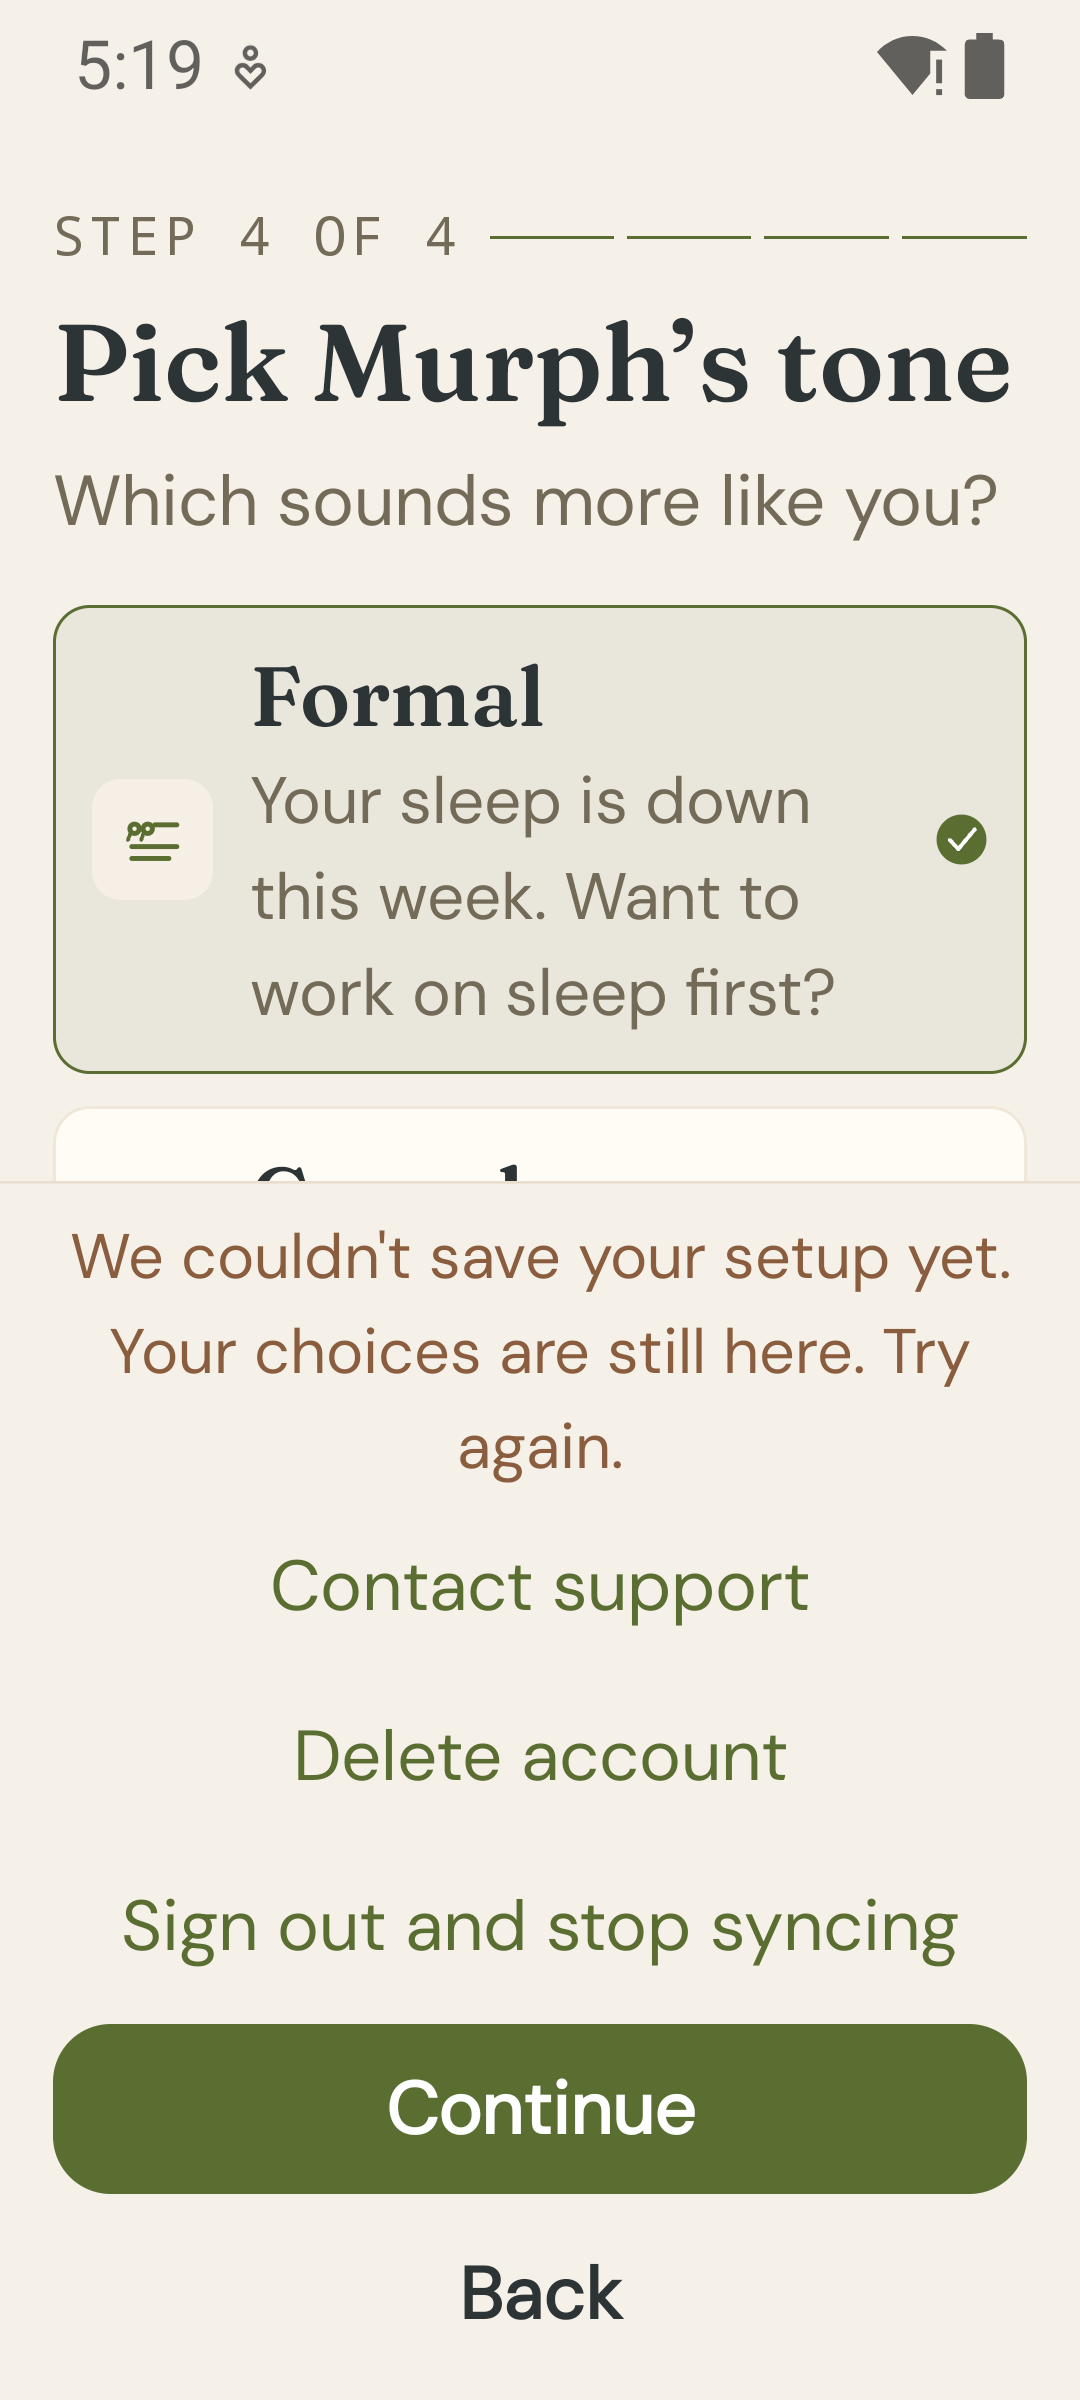
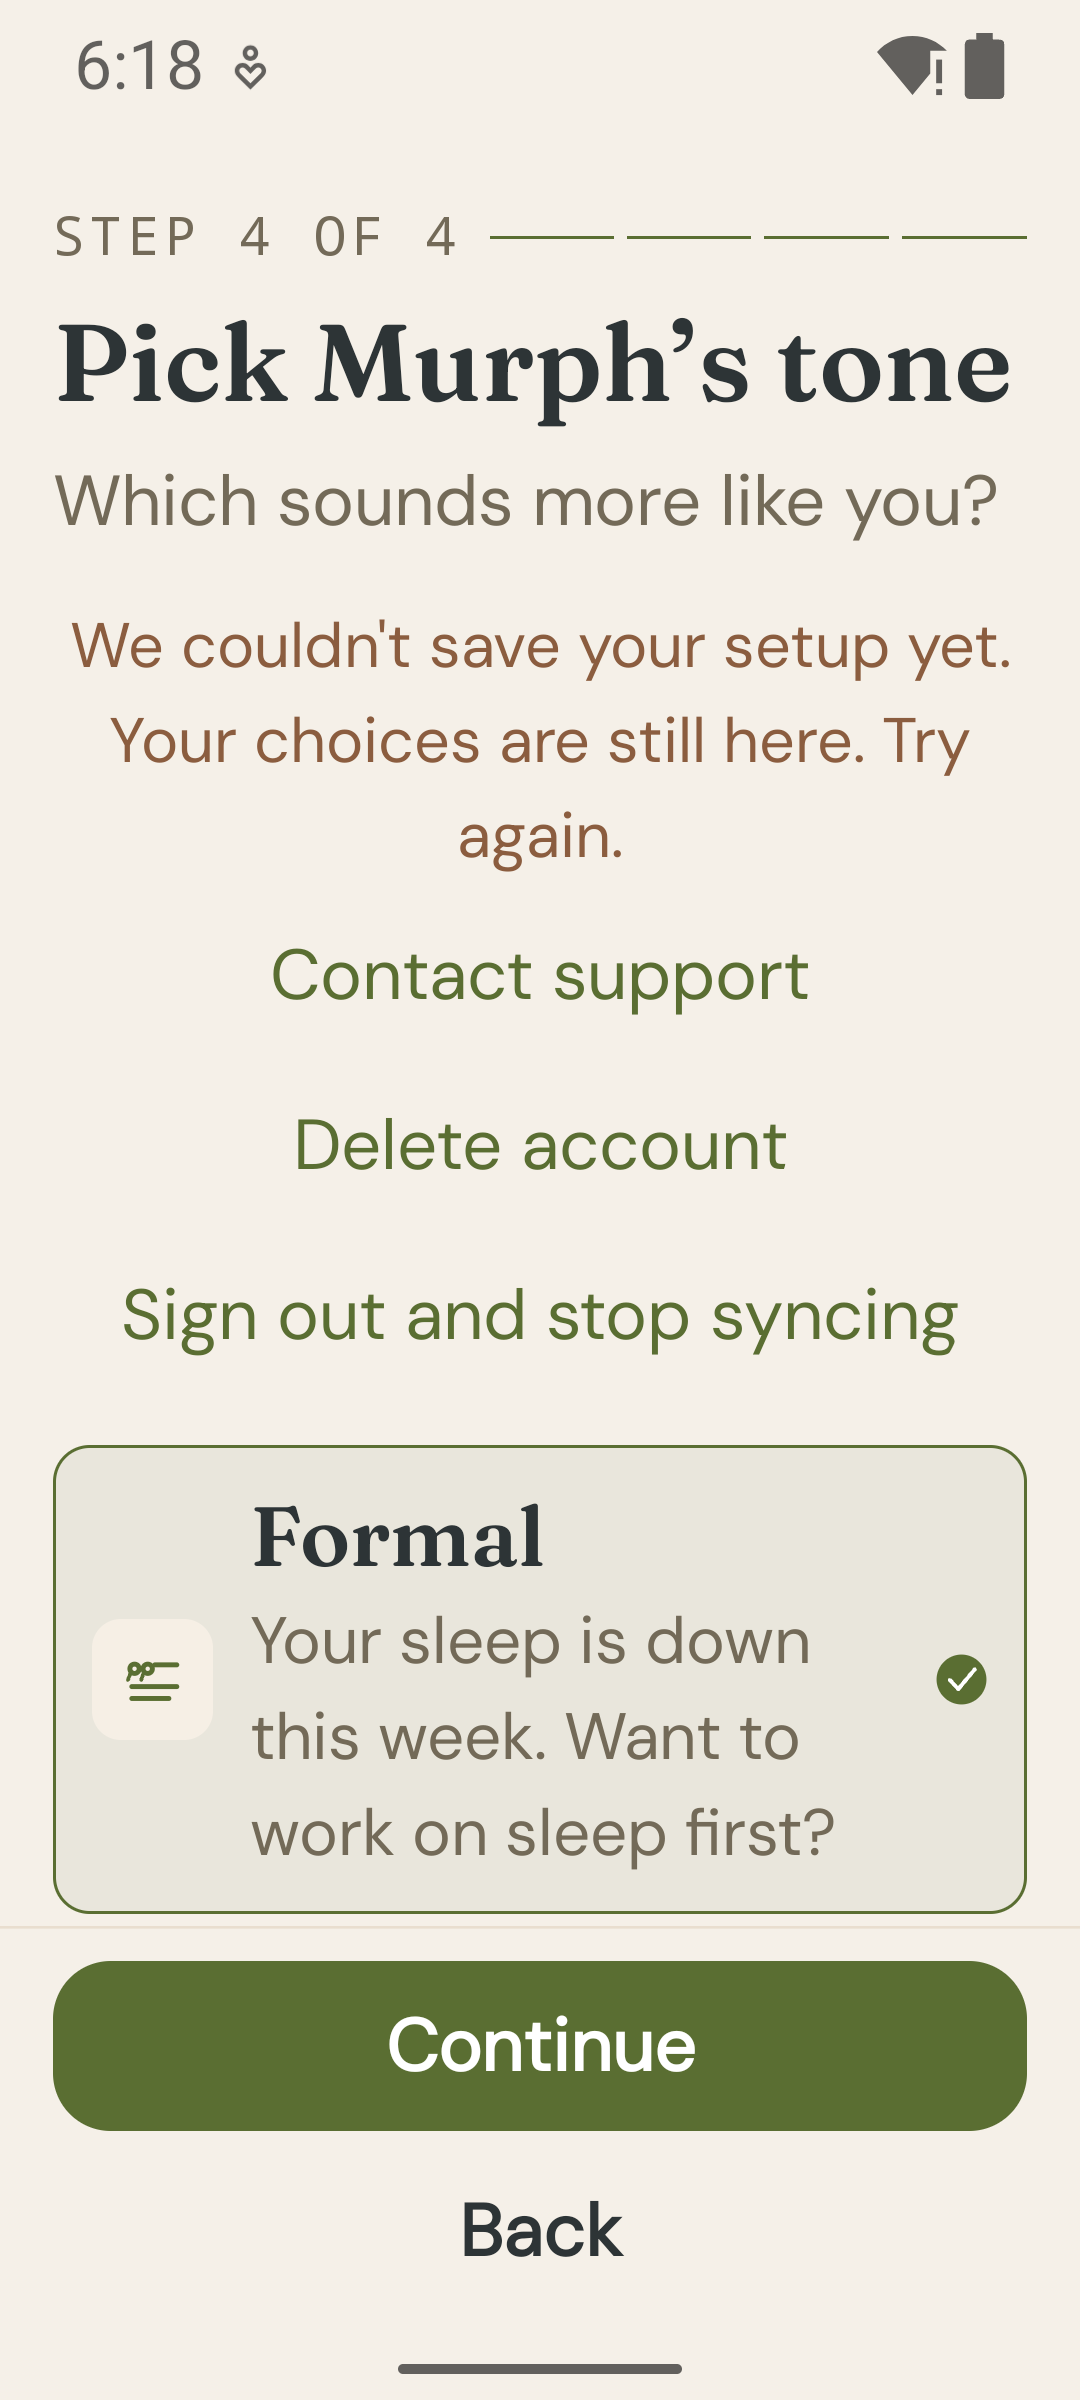
Keep onboarding recovery scrollable

diff --git a/app/src/main/java/ai/withmurph/companion/ui/onboarding/InitialOnboardingScreen.kt b/app/src/main/java/ai/withmurph/companion/ui/onboarding/InitialOnboardingScreen.kt
@@ -185,6 +185,11 @@ fun InitialOnboardingScreen(
         stageHeadingFocus.requestFocus()
         stageScrollState.scrollTo(0)
     }
+    LaunchedEffect(state.initialOnboardingMessage) {
+        if (state.initialOnboardingMessage != null) {
+            stageScrollState.animateScrollTo(0)
+        }
+    }
 
     Column(
         modifier = Modifier
@@ -205,6 +210,38 @@ fun InitialOnboardingScreen(
             verticalArrangement = Arrangement.spacedBy(22.dp),
         ) {
             OnboardingHeader(stage, draft, catalog.personas, stageHeadingFocus)
+            state.initialOnboardingMessage?.let { message ->
+                Column(
+                    modifier = Modifier.fillMaxWidth(),
+                    horizontalAlignment = Alignment.CenterHorizontally,
+                    verticalArrangement = Arrangement.spacedBy(10.dp),
+                ) {
+                    Text(
+                        text = message,
+                        modifier = Modifier.semantics {
+                            liveRegion = LiveRegionMode.Assertive
+                        },
+                        style = MaterialTheme.typography.bodySmall,
+                        color = MurphColors.Sienna,
+                        textAlign = TextAlign.Center,
+                    )
+                    MurphLinkButton(
+                        text = "Contact support",
+                        onClick = actions.onOpenSupport,
+                        enabled = !state.isInitialOnboardingSaving,
+                    )
+                    MurphLinkButton(
+                        text = "Delete account",
+                        onClick = actions.onDeleteAccount,
+                        enabled = !state.isInitialOnboardingSaving,
+                    )
+                    MurphLinkButton(
+                        text = "Sign out and stop syncing",
+                        onClick = actions.onSignOut,
+                        enabled = !state.isInitialOnboardingSaving,
+                    )
+                }
+            }
             when (stage) {
                 InitialOnboardingStage.Contact -> ContactChoices(
                     avatars = onboarding.contactCard?.avatars.orEmpty(),
@@ -263,29 +300,6 @@ fun InitialOnboardingScreen(
                 horizontalAlignment = Alignment.CenterHorizontally,
                 verticalArrangement = Arrangement.spacedBy(10.dp),
             ) {
-                state.initialOnboardingMessage?.let { message ->
-                    Text(
-                        text = message,
-                        style = MaterialTheme.typography.bodySmall,
-                        color = MurphColors.Sienna,
-                        textAlign = TextAlign.Center,
-                    )
-                    MurphLinkButton(
-                        text = "Contact support",
-                        onClick = actions.onOpenSupport,
-                        enabled = !state.isInitialOnboardingSaving,
-                    )
-                    MurphLinkButton(
-                        text = "Delete account",
-                        onClick = actions.onDeleteAccount,
-                        enabled = !state.isInitialOnboardingSaving,
-                    )
-                    MurphLinkButton(
-                        text = "Sign out and stop syncing",
-                        onClick = actions.onSignOut,
-                        enabled = !state.isInitialOnboardingSaving,
-                    )
-                }
                 OnboardingFooter(stage, state.isInitialOnboardingSaving, actions)
             }
         }

diff --git a/app/src/androidTest/java/ai/withmurph/companion/visual/ScreenshotScenarioSmokeTest.kt b/app/src/androidTest/java/ai/withmurph/companion/visual/ScreenshotScenarioSmokeTest.kt
@@ -46,9 +46,14 @@ class ScreenshotScenarioSmokeTest {
 
     @Test
     fun onboardingErrorFixtureRendersDirectAccountRecovery() = withScenario("onboardingError") {
-        onNodeWithText("Contact support").assertIsDisplayed().assertHasClickAction()
-        onNodeWithText("Delete account").assertIsDisplayed().assertHasClickAction()
-        onNodeWithText("Sign out and stop syncing").assertIsDisplayed().assertHasClickAction()
+        onNodeWithText("Contact support").performScrollTo().assertIsDisplayed().assertHasClickAction()
+        onNodeWithText("Delete account").performScrollTo().assertIsDisplayed().assertHasClickAction()
+        onNodeWithText("Sign out and stop syncing")
+            .performScrollTo()
+            .assertIsDisplayed()
+            .assertHasClickAction()
+        onNodeWithText("Continue").assertIsDisplayed().assertHasClickAction()
+        onNodeWithText("Back").assertIsDisplayed().assertHasClickAction()
         onAllNodesWithText("Settings").assertCountEquals(0)
     }
 
